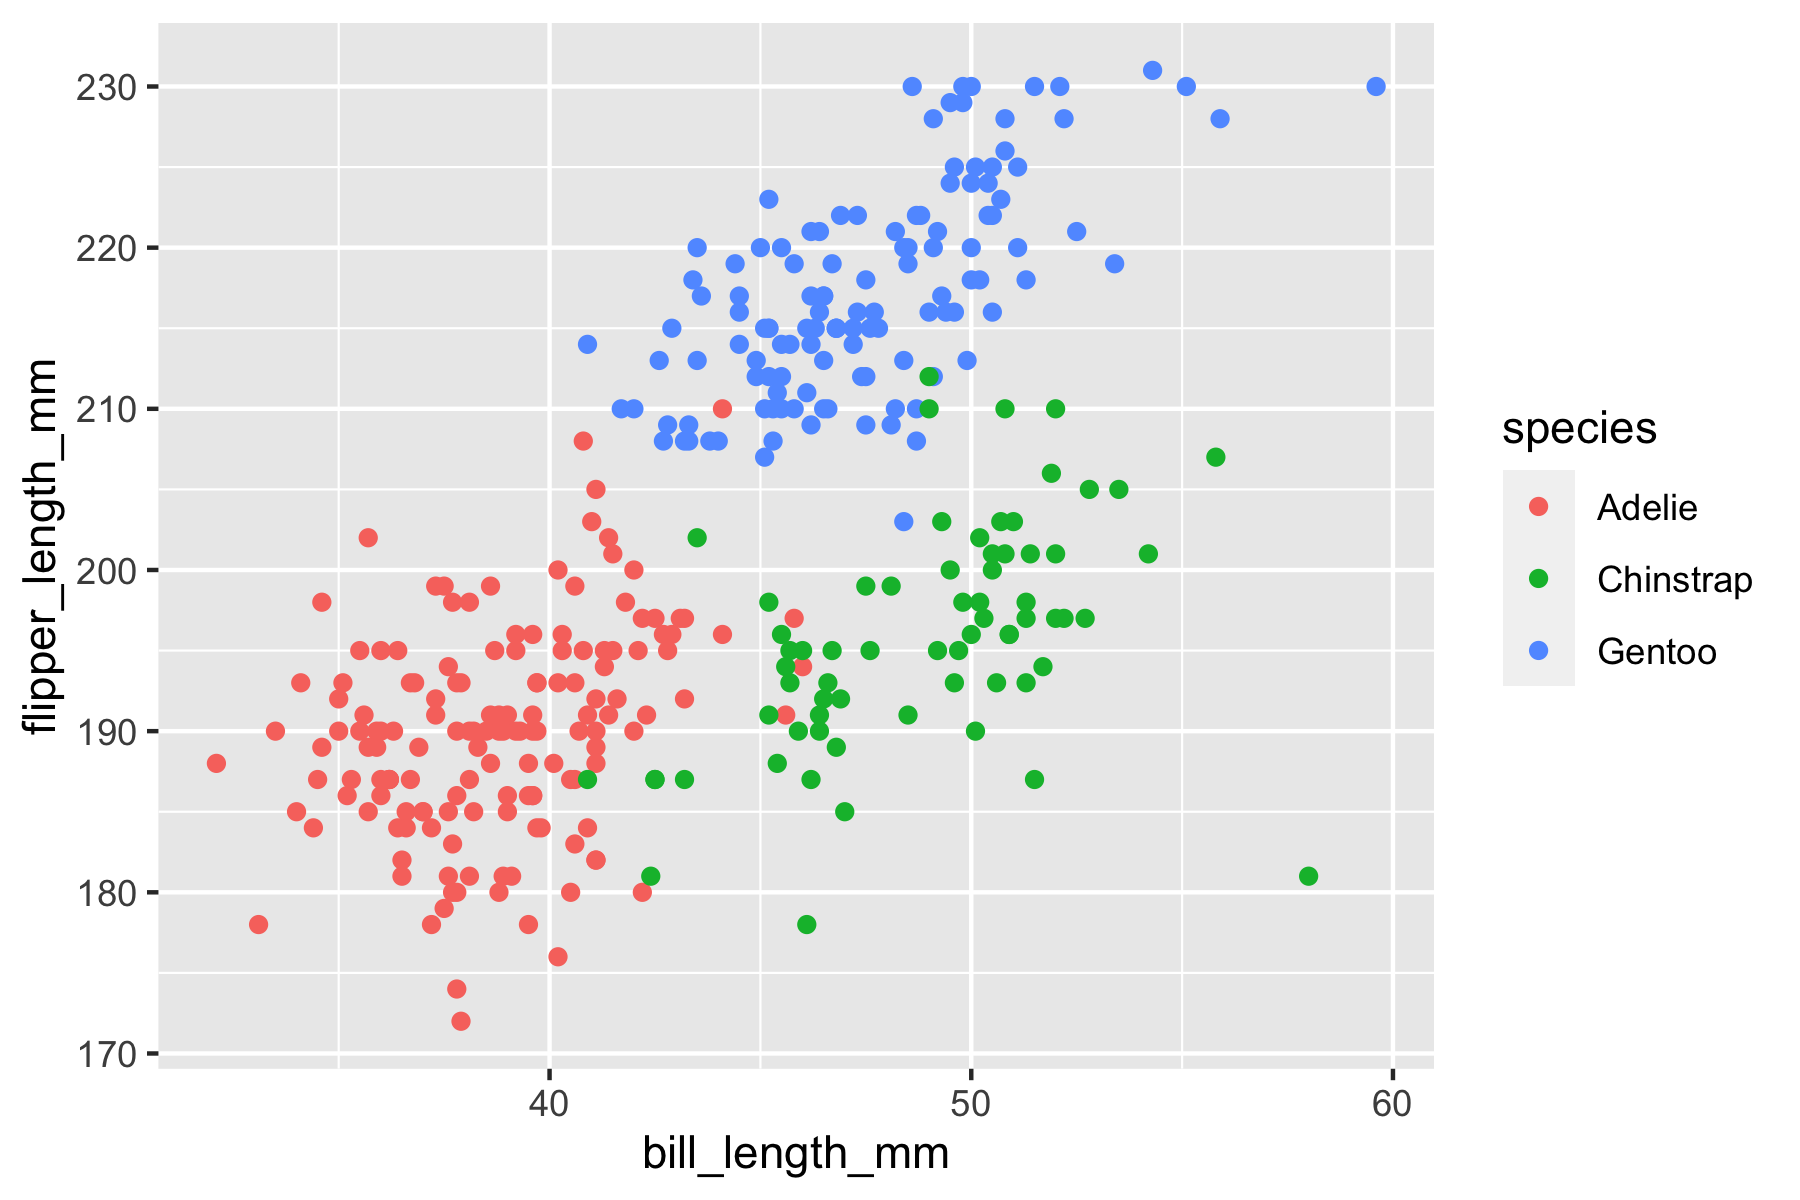
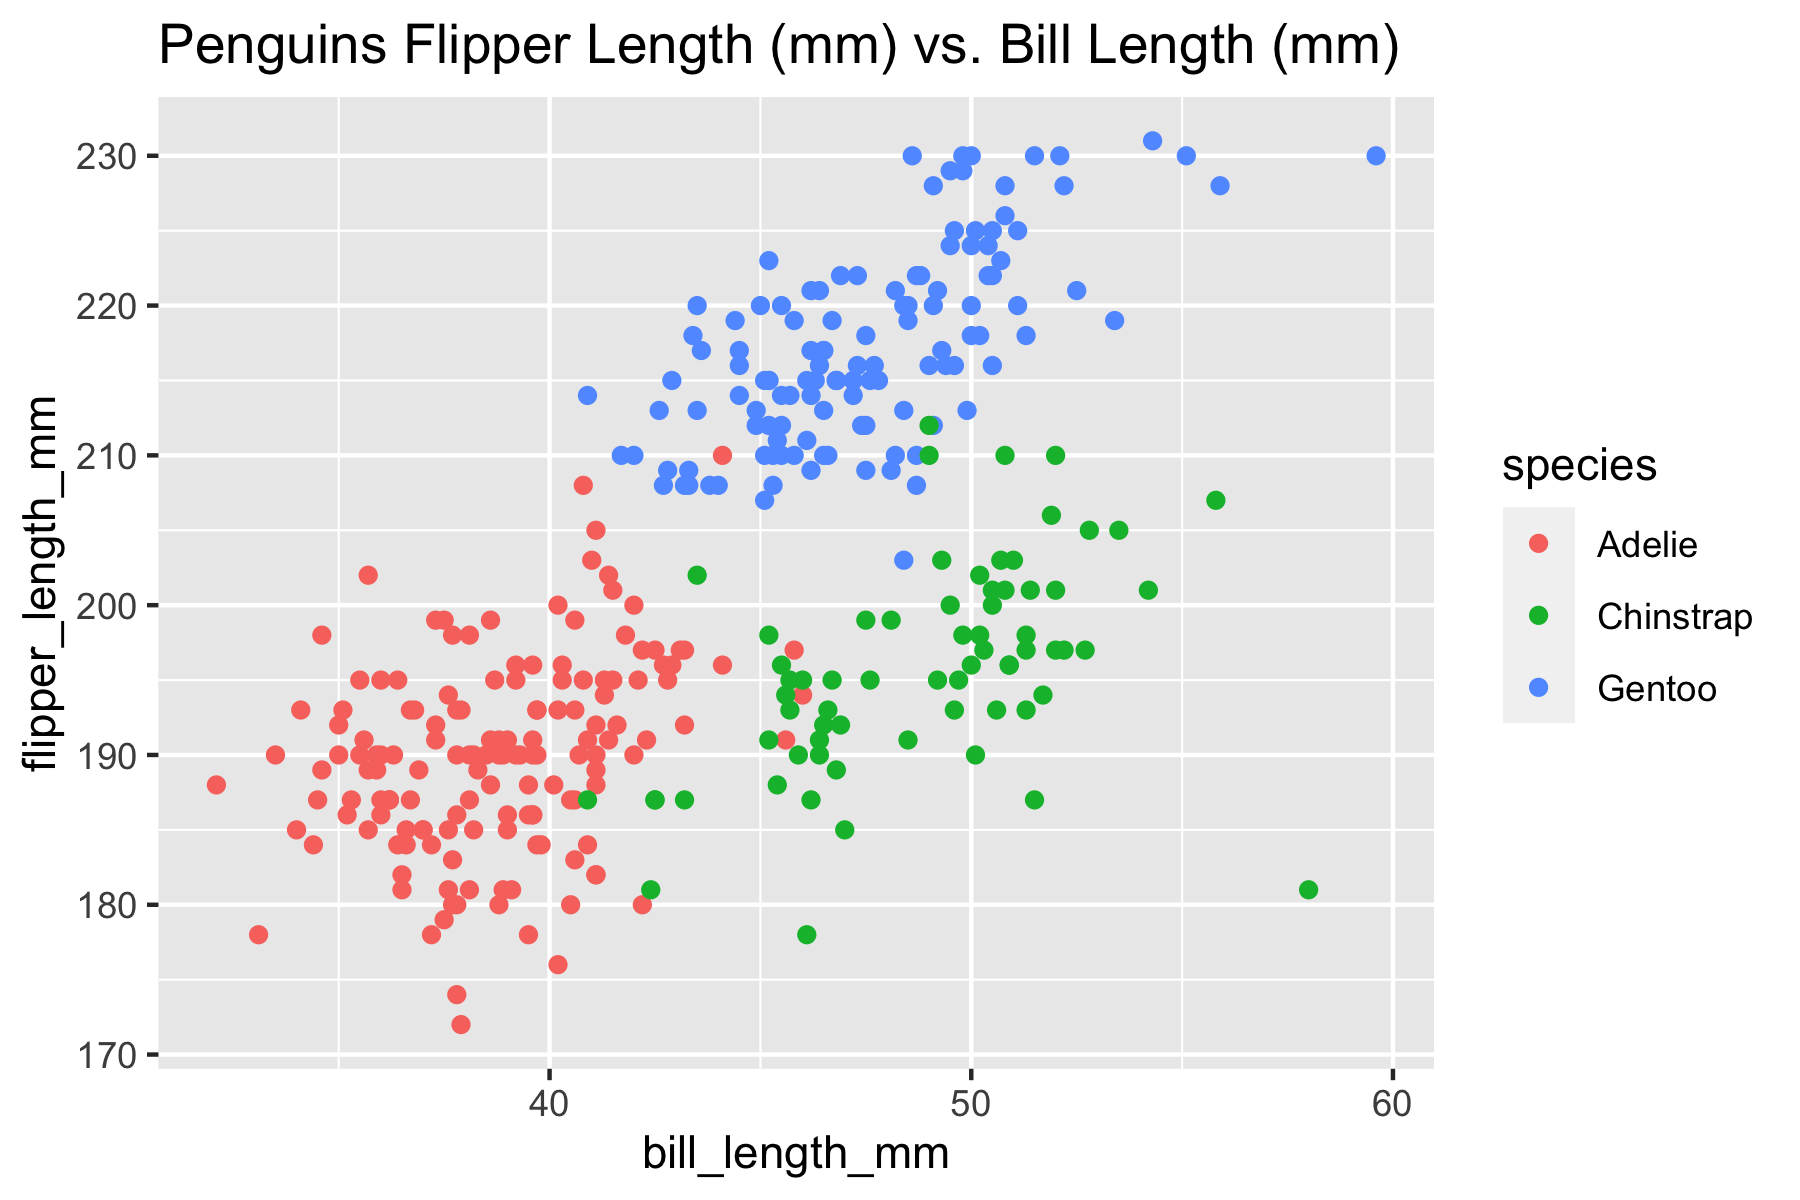
add title to graph

diff --git a/p8105_hw1_WZ2591.md b/p8105_hw1_WZ2591.md
@@ -213,7 +213,7 @@ Export the first scatterplot to your project directory using ggsave. The
 plot will be saved to a .pdf file called hwl\_plot.png.
 
 ``` r
-  ggplot(penguins, aes(x = bill_length_mm, y = flipper_length_mm, color=species, na.rm = TRUE)) + geom_point(na.rm = TRUE)
+  ggplot(penguins, aes(x = bill_length_mm, y = flipper_length_mm, color=species, na.rm = TRUE)) + geom_point(na.rm = TRUE) + ggtitle("Penguins Flipper Length (mm) vs. Bill Length (mm)")
 ```
 
 ![](p8105_hw1_WZ2591_files/figure-gfm/unnamed-chunk-9-1.png)<!-- -->
